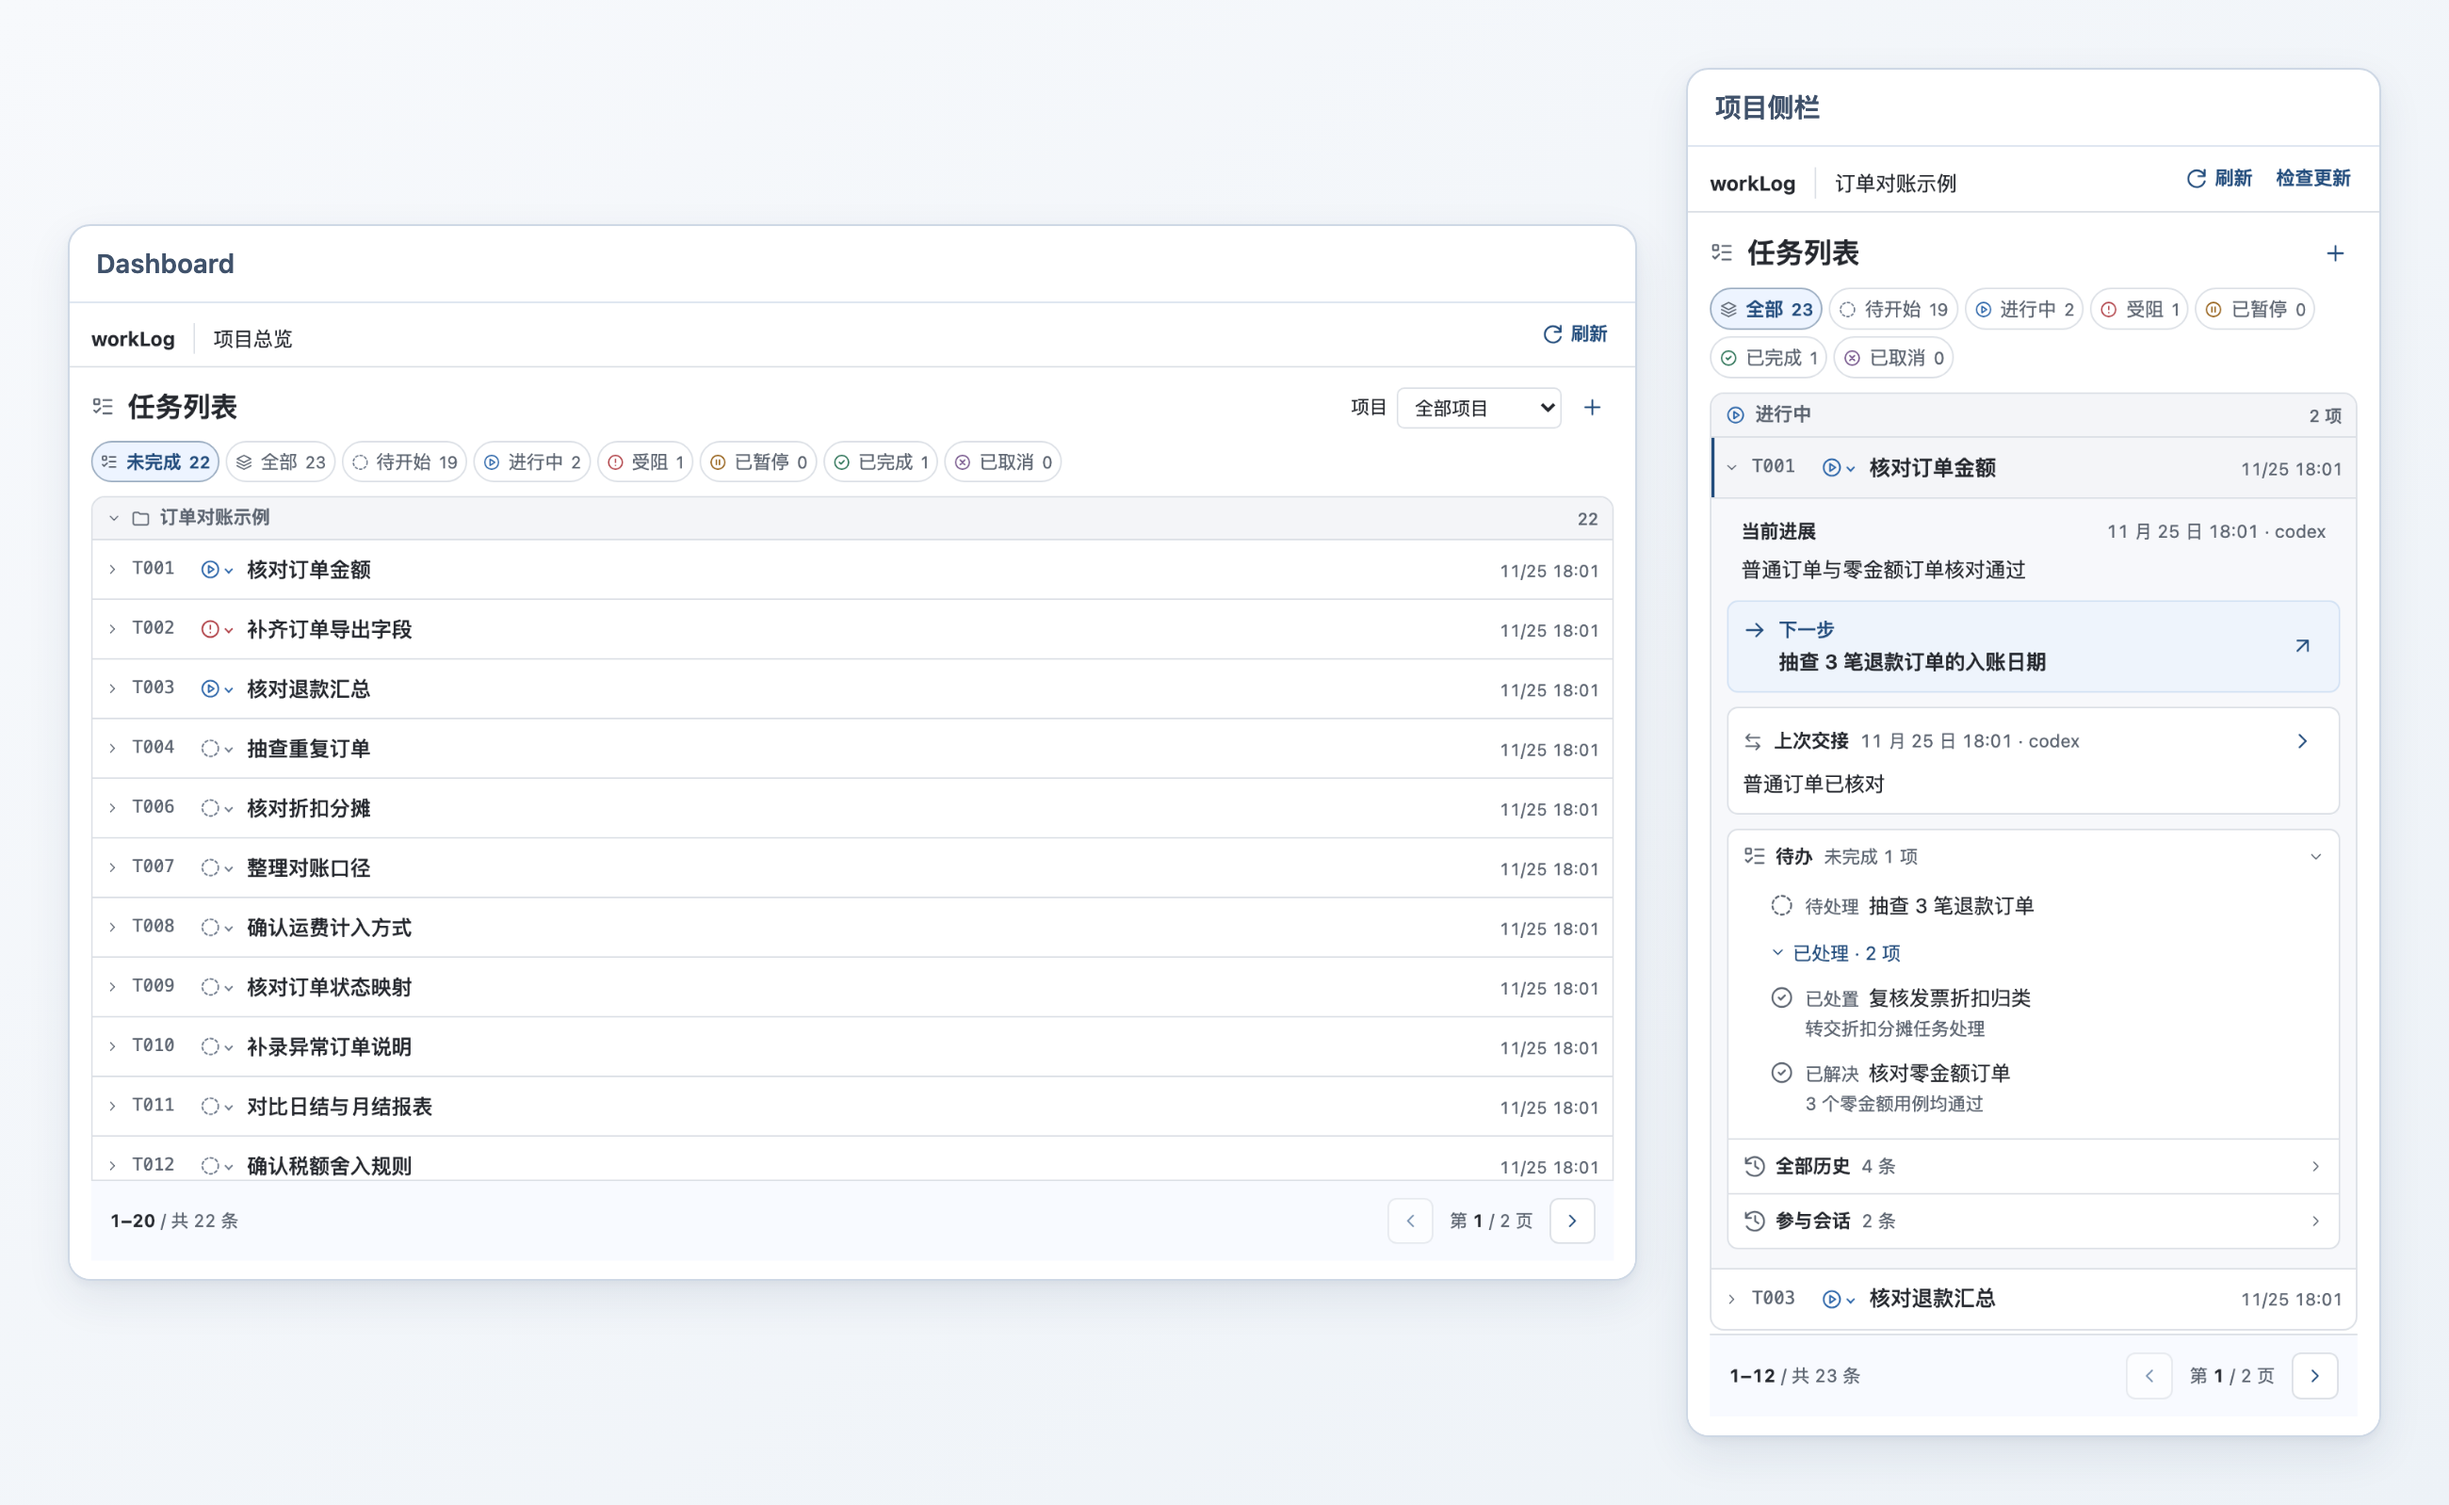
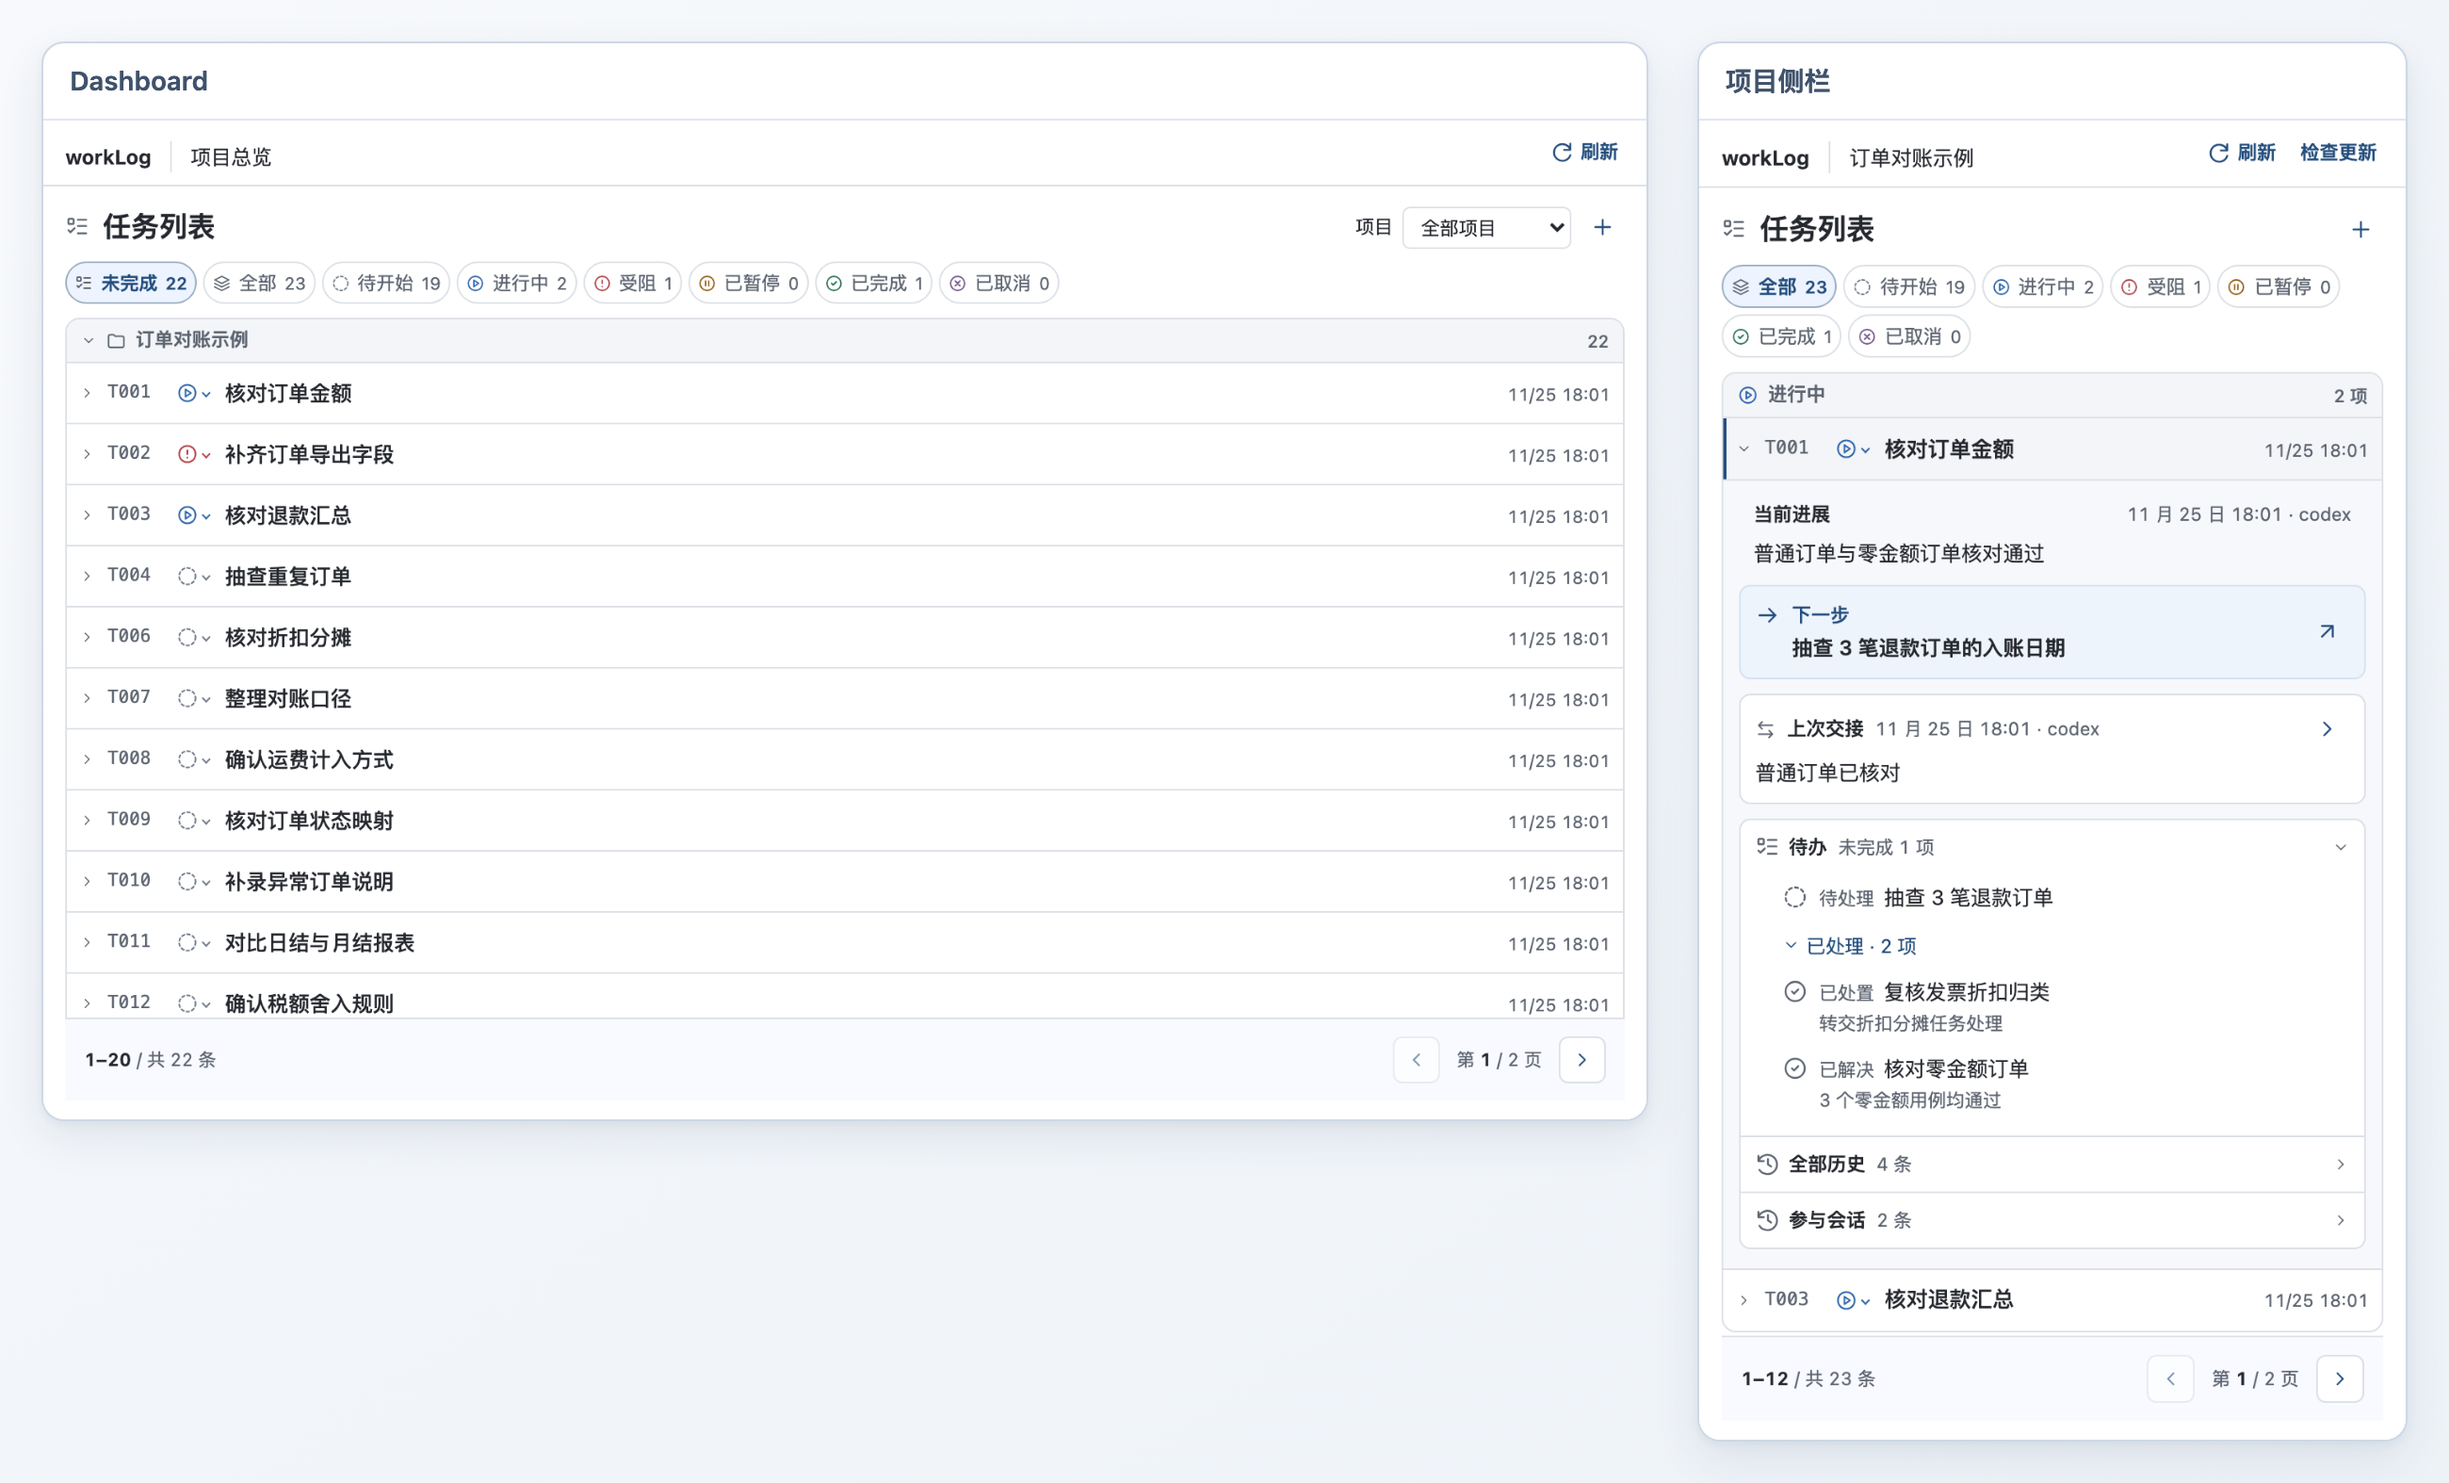
docs: top-align the Codex panels preview

diff --git a/README.en.md b/README.en.md
@@ -68,7 +68,7 @@ Start a chat from your project's root directory and load the `worklog` Skill. If
 
 The Dashboard and project sidebar from the Codex GUI 0.2.0 release, shown with sample order-reconciliation data in the Chinese interface.
 
-[![The workLog Dashboard task list and pagination on the left, and project sidebar task details and to-dos on the right](docs/images/codex-panels.png)](docs/images/codex-panels.png)
+[![Side-by-side view of the workLog Dashboard task list and pagination and the project sidebar task details and to-dos](docs/images/codex-panels.png)](docs/images/codex-panels.png)
 
 [Original Dashboard screenshot](docs/images/codex-dashboard.png) · [Original project sidebar screenshot](docs/images/codex-task-panel.png)
 

diff --git a/README.md b/README.md
@@ -68,7 +68,7 @@ https://github.com/floohubAI/worklog/releases/download/gui-codex-v0.2.0/install-
 
 Codex GUI 0.2.0 正式包的 Dashboard 和项目侧栏，使用订单对账示例数据。
 
-[![左侧是 workLog Dashboard 的任务列表和分页，右侧是项目侧栏中的任务详情与待办](docs/images/codex-panels.png)](docs/images/codex-panels.png)
+[![并排展示 workLog Dashboard 的任务列表与分页，以及项目侧栏的任务详情与待办](docs/images/codex-panels.png)](docs/images/codex-panels.png)
 
 [Dashboard 原图](docs/images/codex-dashboard.png) · [项目侧栏原图](docs/images/codex-task-panel.png)
 
